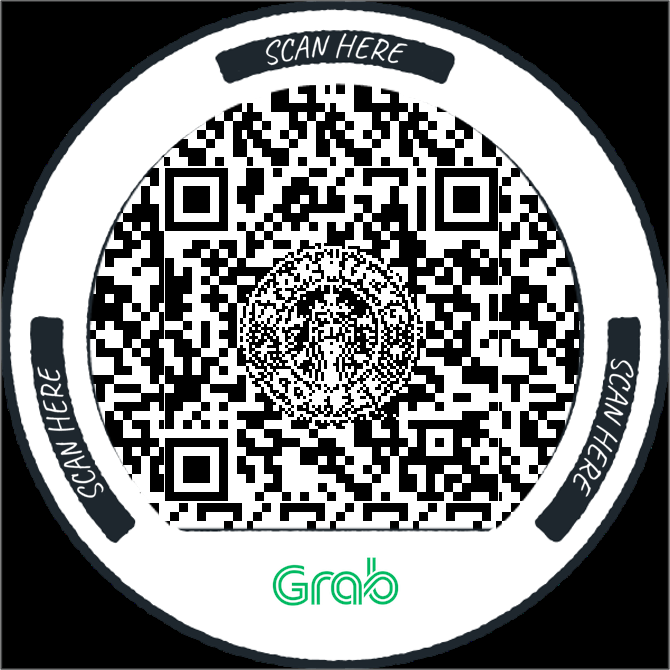
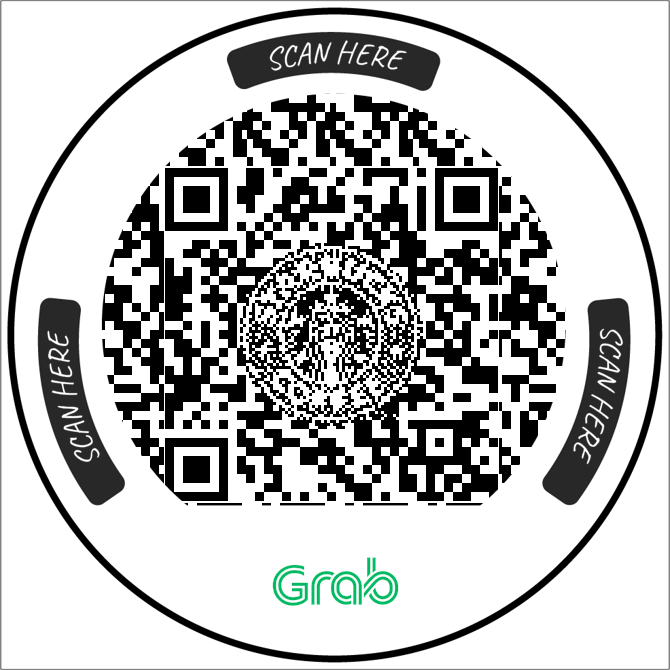
increase border size

diff --git a/qr.py b/qr.py
@@ -23,11 +23,11 @@ print(config)
 with WandImage() as img:
     img.background_color = 'white'
     img.font = Font(font, 60)  
-    img.read(filename='label: SCAN HERE                                                                         SCAN HERE                                                     SCAN HERE                                                    ')
+    img.read(filename='label: SCAN HERE                                                                               SCAN HERE                                                 SCAN HERE                                                ')
     img.virtual_pixel = 'white'
     # 360 degree arc, rotated -90 degrees
-    img.distort('arc', (360,-86))
-    img.save(filename='text.png')
+    img.distort('arc', (360,-91))
+    img.save(filename='text.png')   
     img.format = 'png'
 
 # qr = qrcode.QRCode(
@@ -98,7 +98,7 @@ white = Image.open('white.png')
 white = white.resize(new_im.size)
 text_color = white.copy()
 mask = white.copy()
-mask.paste( Image.open('text.png').resize( (white.size[0]-font_fix, white.size[1]-font_fix) ), (int(font_fix/2),int(font_fix/2)) )
+mask.paste( Image.open('text.png').resize( (white.size[0]-font_fix, white.size[1]-font_fix) ), (int(font_fix/2),int(font_fix/2)-5) )
 mask = mask.resize(new_im.size)
 mask = mask.convert('L')
 text_color.save("gg.png")
